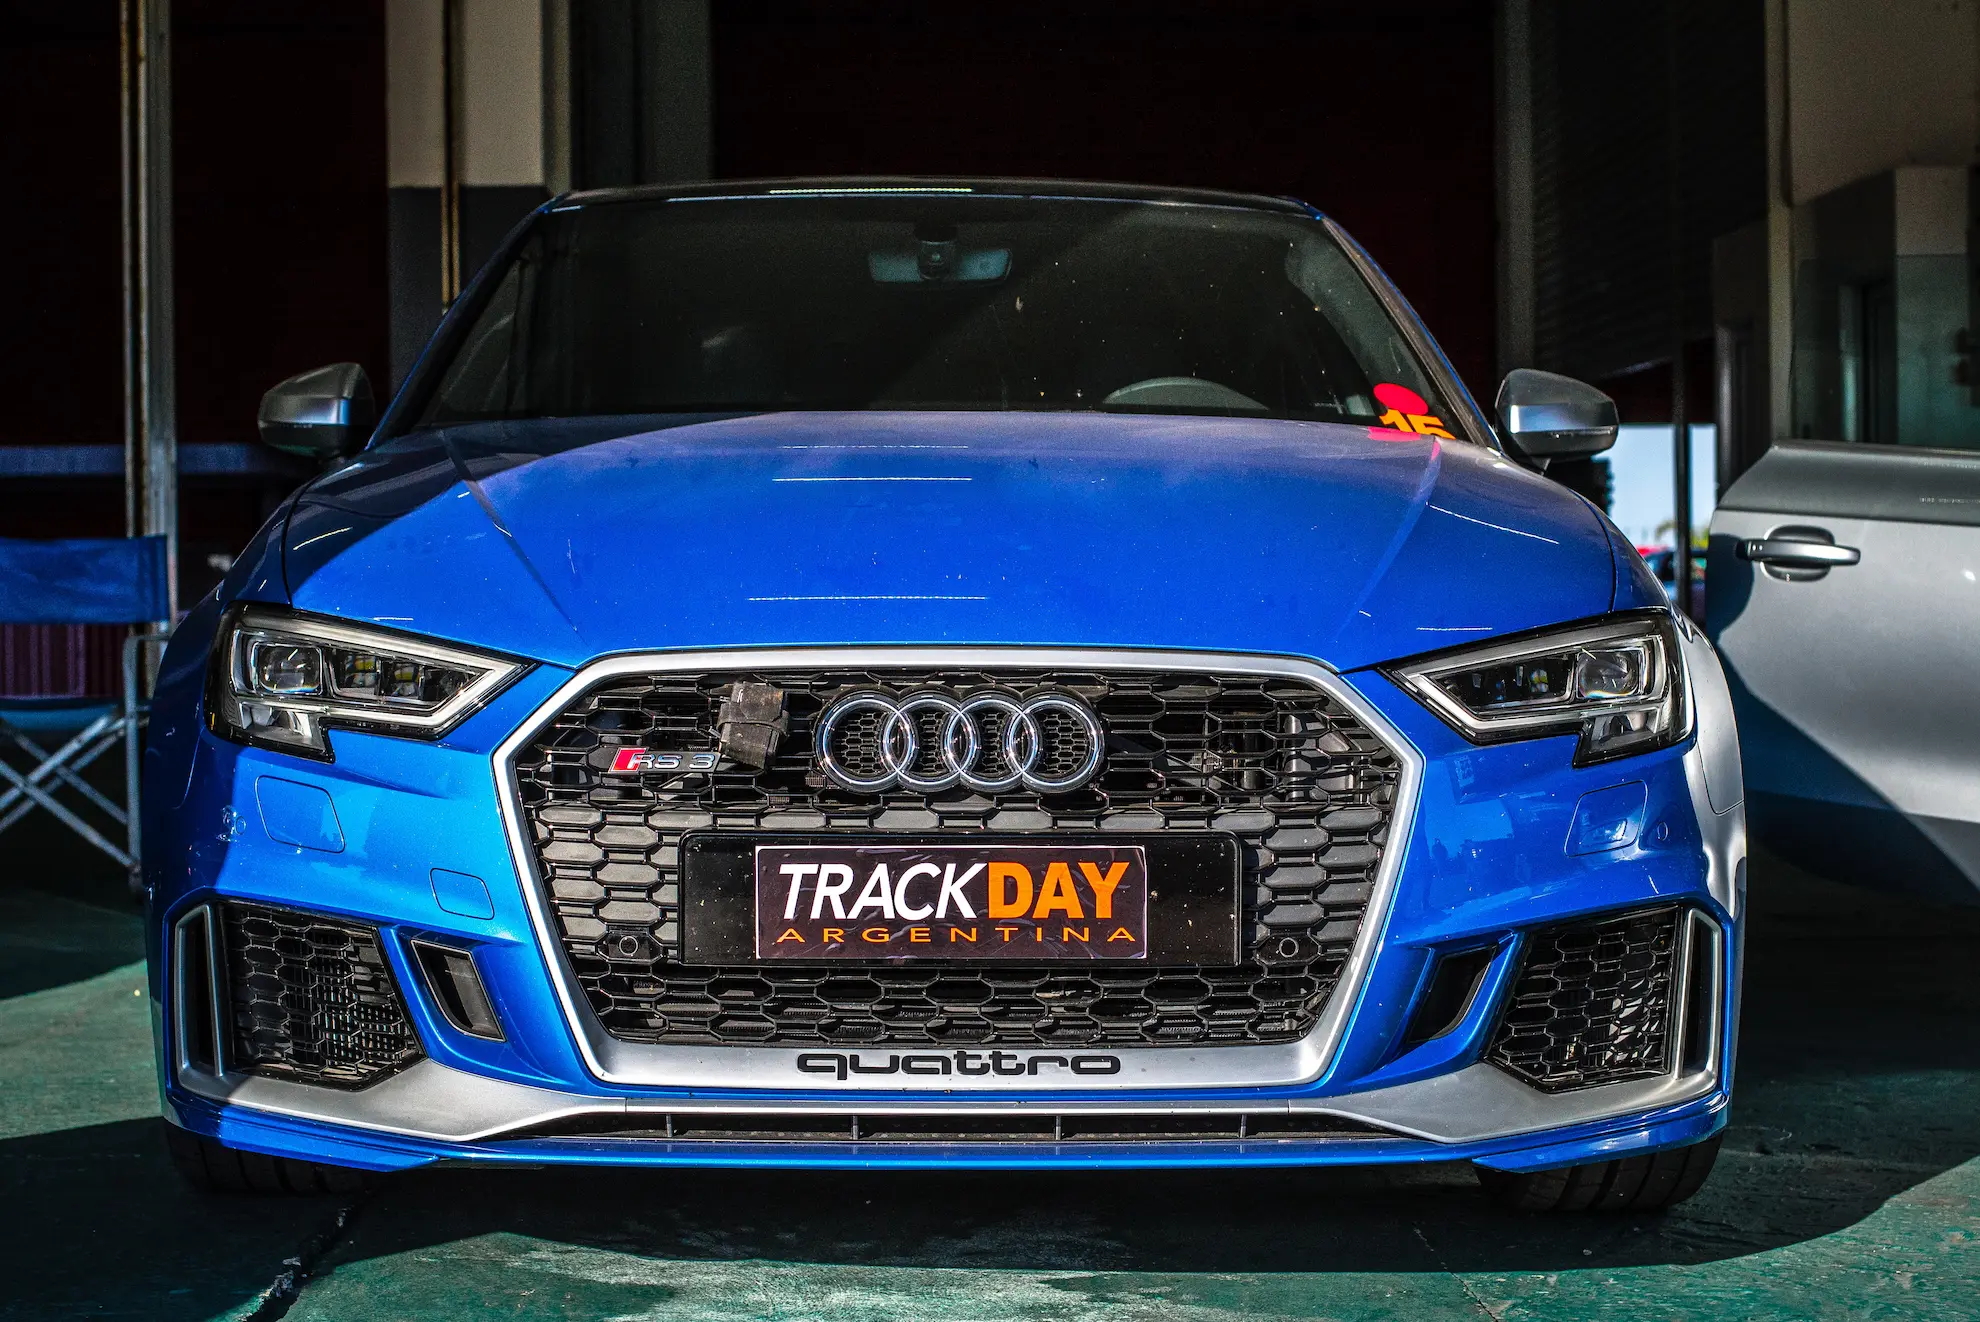
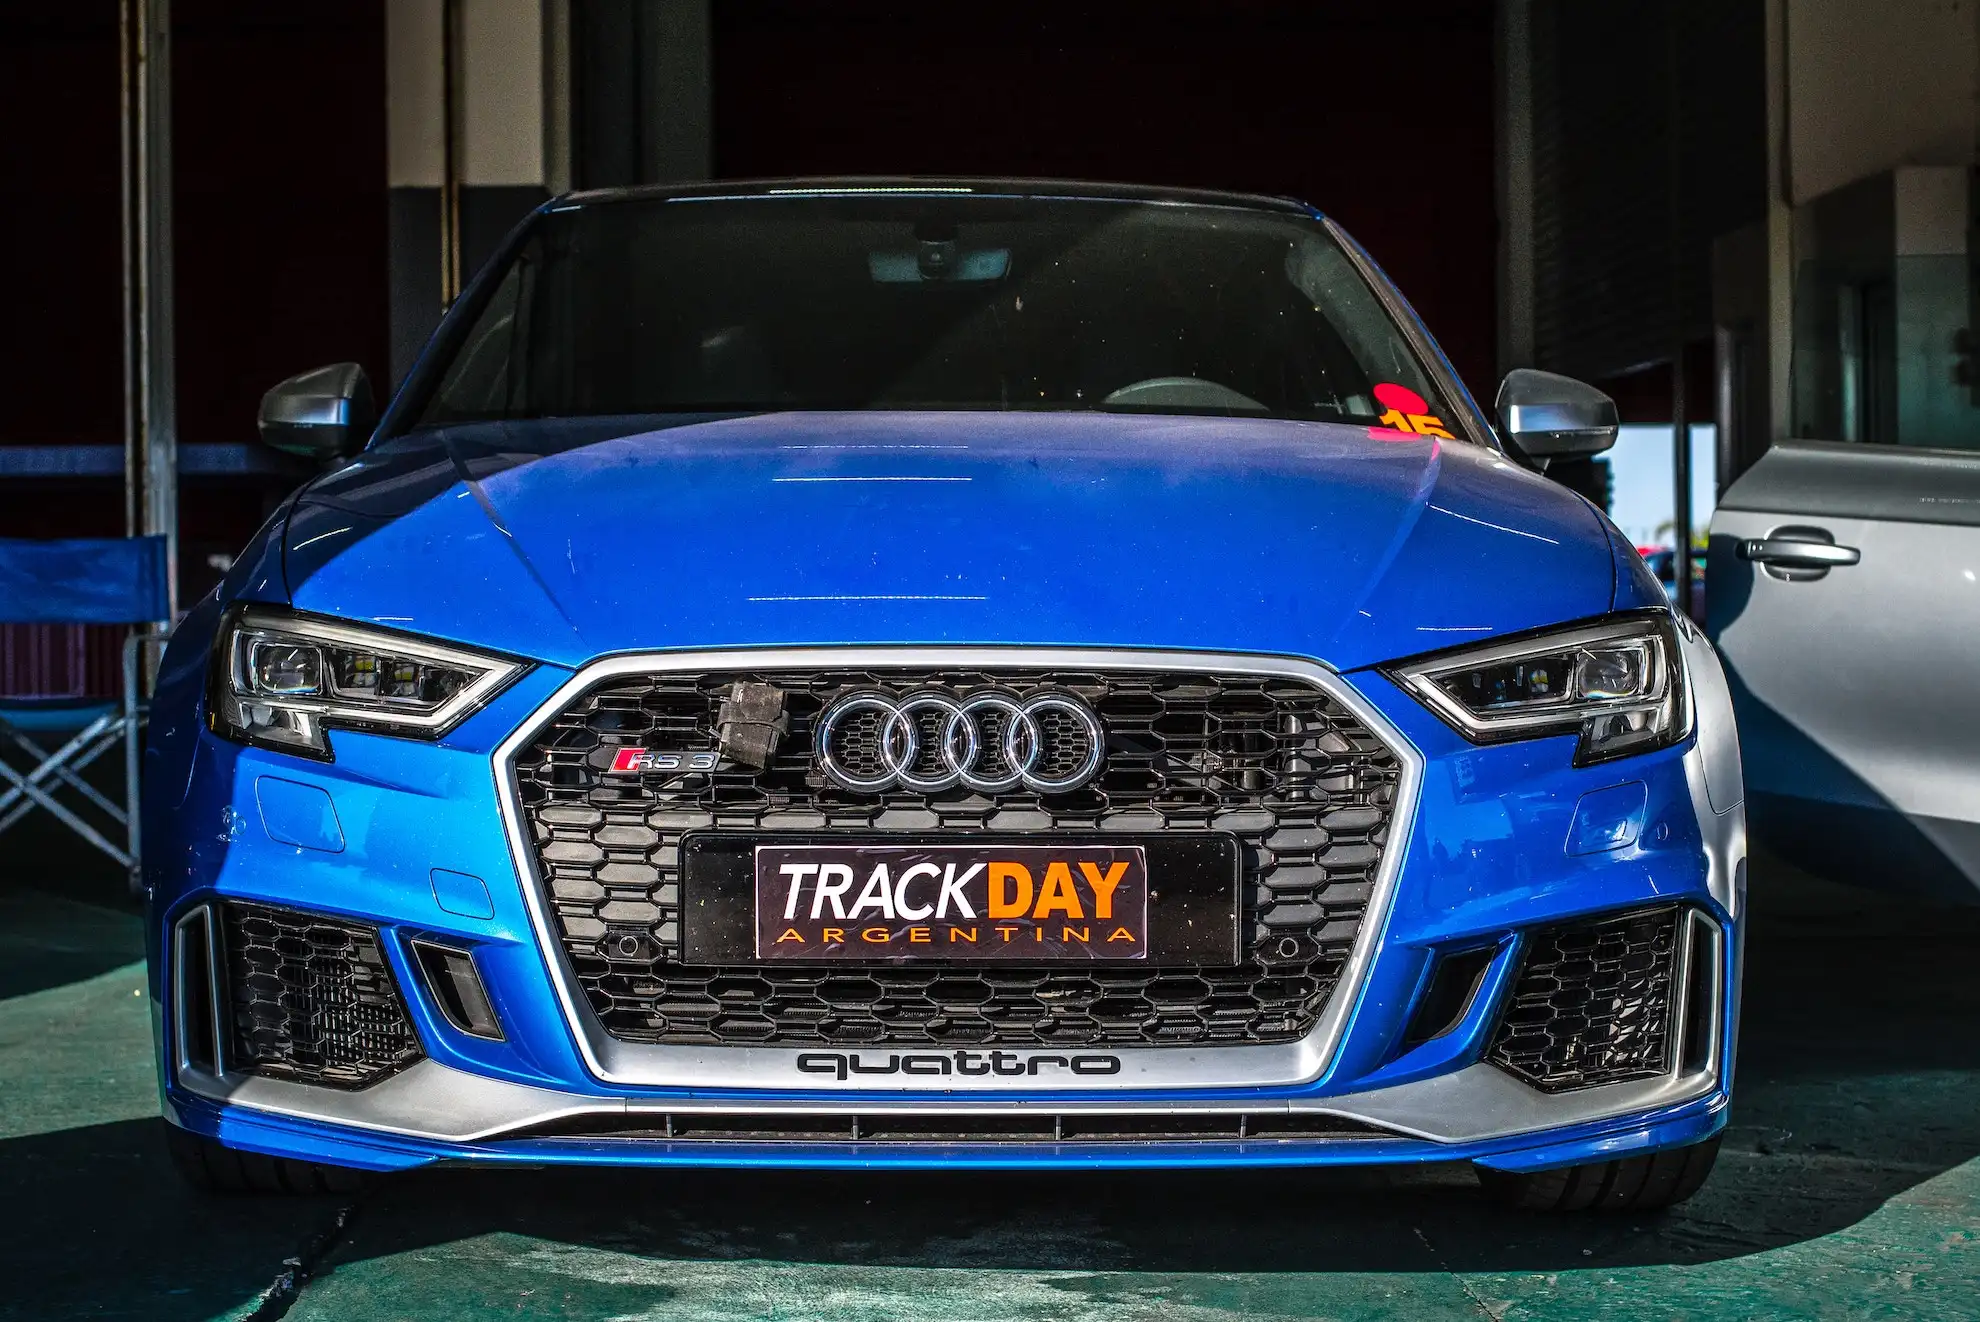
optimize graphics in offer section - card-2

diff --git a/index.html b/index.html
@@ -127,8 +127,12 @@
 
                     <div class="offer__card">
                         <div class="offer__image-box">
-                            <img class="offer__image" src="./src/img/card-2.webp"
-                                alt="Zdjęcie niebieskiego samochodu - Audi RS3">
+                            <picture>
+                                <source srcset="./src/img/card-2.webp" type="image/webp">
+                                <source srcset="./src/img/card-2-min.jpg" type="image/jpg">
+                                <img class="offer__image" src="./src/img/card-2-min.jpg"
+                                    alt="Zdjęcie niebieskiego samochodu - Audi RS3">
+                            </picture>
                         </div>
                         <div class="offer__text-box">
                             <h3 class="heading-tertiary">Audi RS3</h3>
